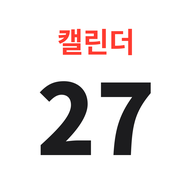
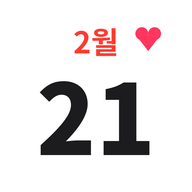
앱 아이콘: 2월 21일 + 하트
Claude-Session: https://claude.ai/code/session_015AGhZXtsvvHb7vnR1nKdkf

Changed region(s): [[0.2812, 0.125, 0.8438, 0.3125], [0.5, 0.4062, 0.8125, 0.8125]]

diff --git a/sw.js b/sw.js
@@ -1,5 +1,5 @@
 // 오프라인용: 앱 파일을 휴대폰에 보관해 두고, 인터넷이 되면 새 버전으로 바꾼다.
-const CACHE = 'mycal-v8';
+const CACHE = 'mycal-v9';
 const FILES = ['./', './index.html', './manifest.webmanifest', './icon-192.png', './icon-512.png', './apple-touch-icon.png'];
 self.addEventListener('install', e => { e.waitUntil(caches.open(CACHE).then(c => c.addAll(FILES))); self.skipWaiting(); });
 self.addEventListener('activate', e => {
